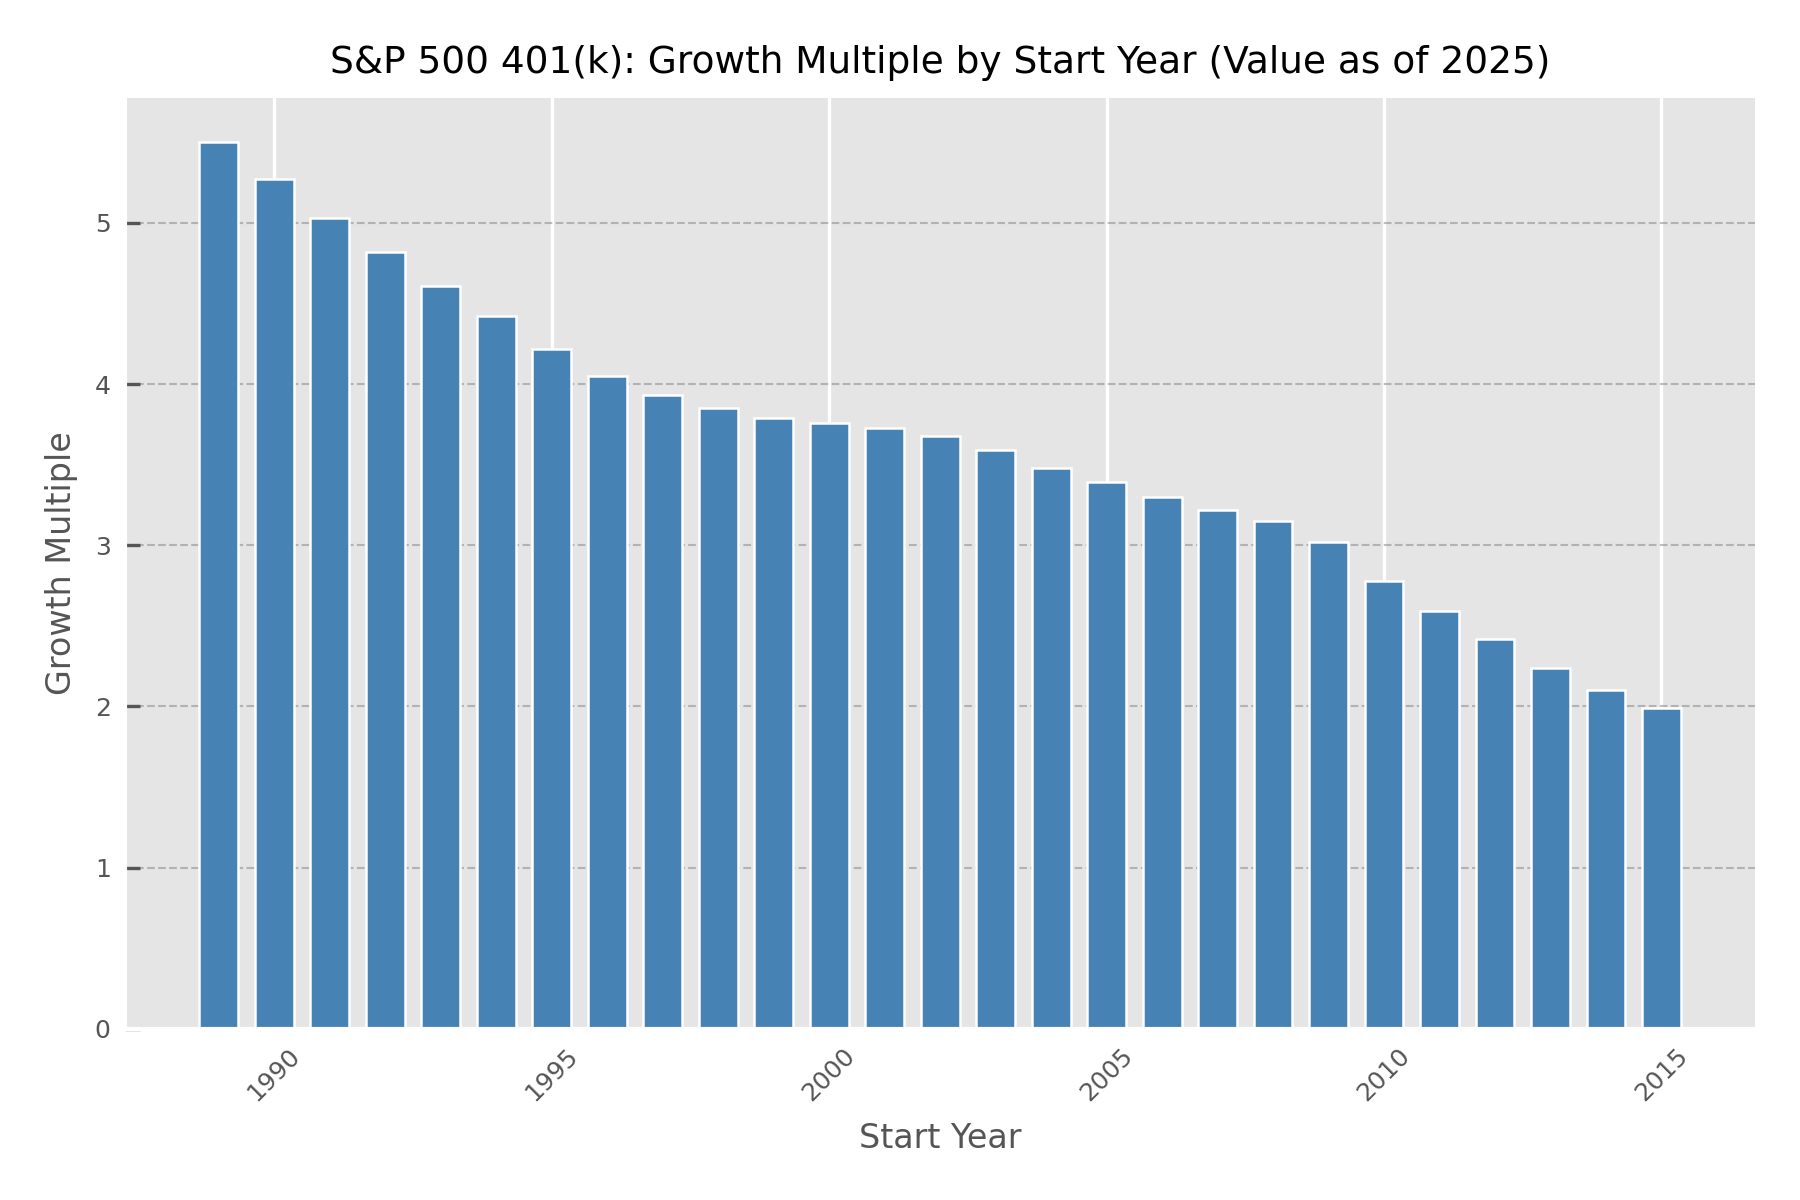
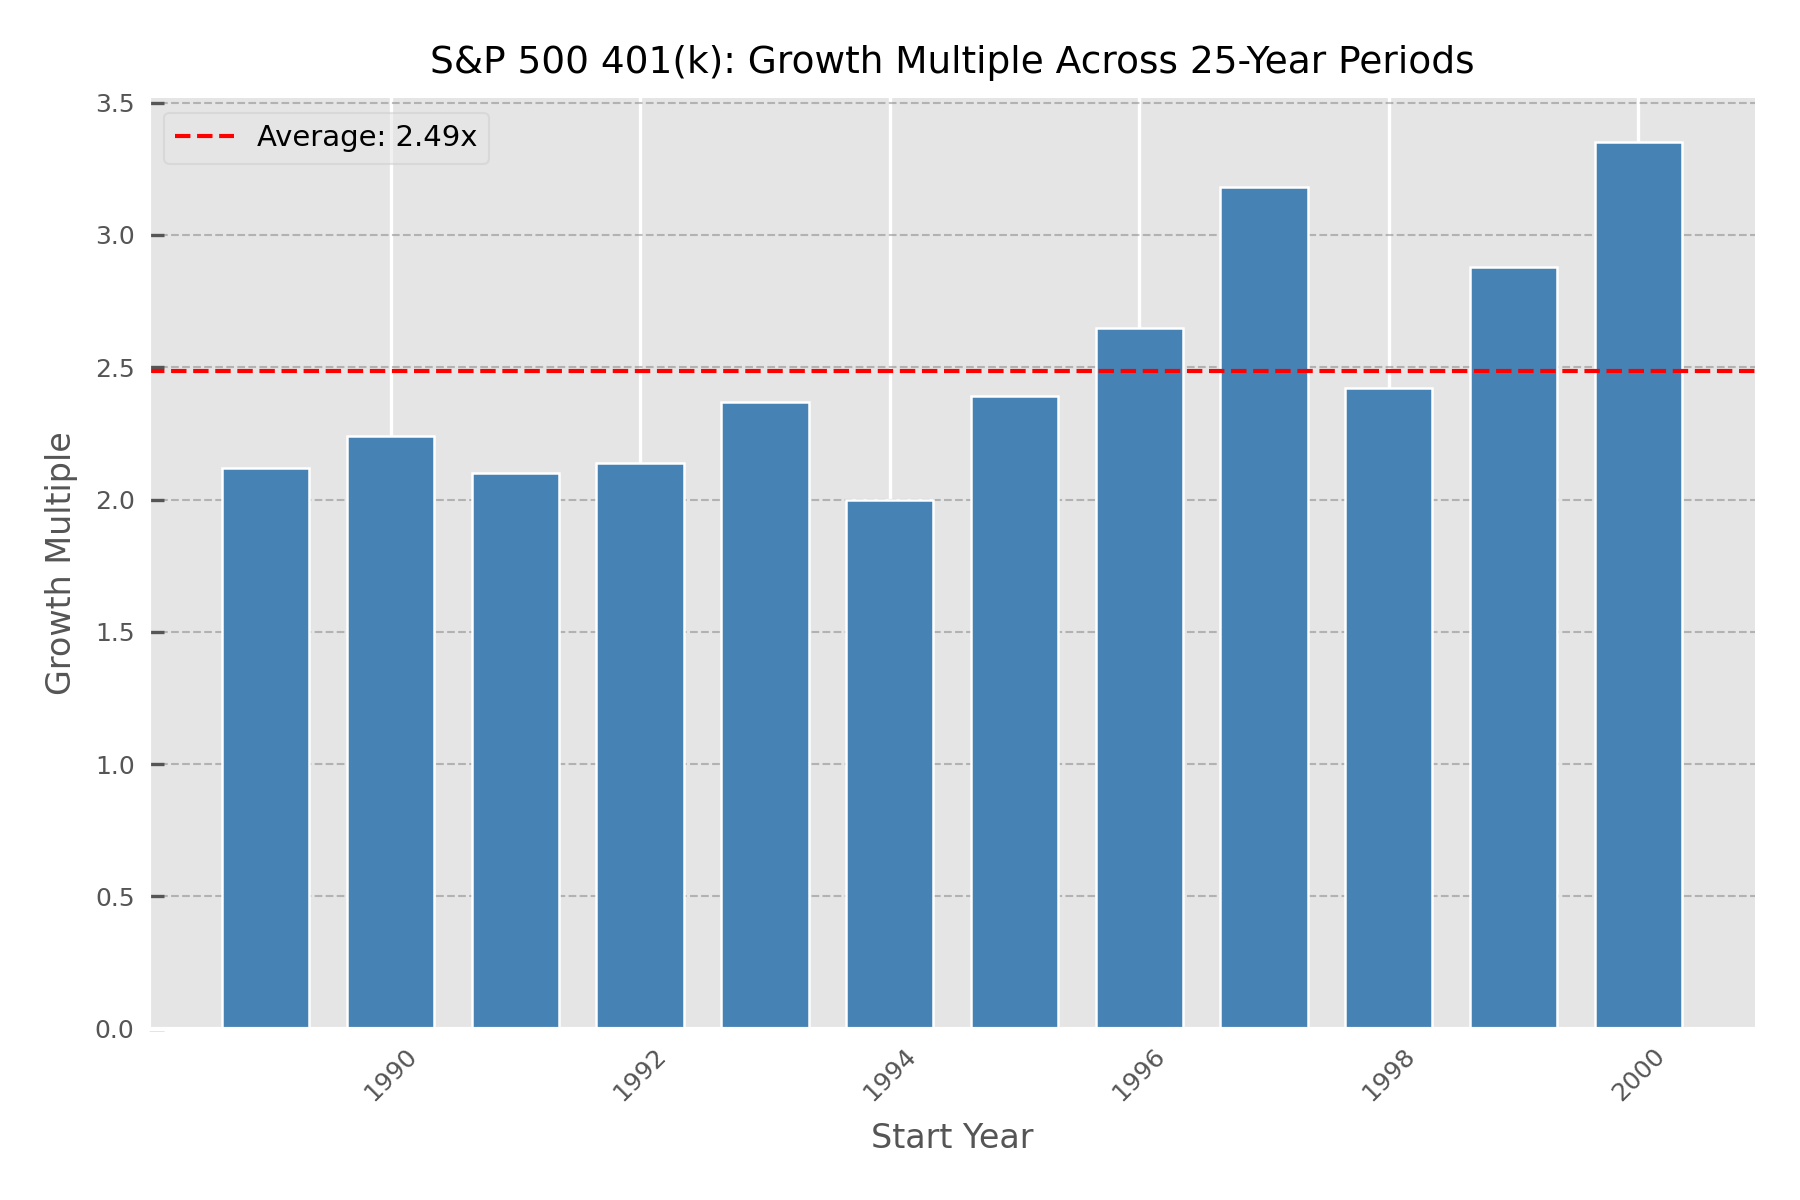
structure update

diff --git a/blog.html b/blog.html
@@ -1,0 +1,56 @@
+<!DOCTYPE html>
+<html lang="en">
+<head>
+  <meta charset="utf-8">
+  <meta name="viewport" content="width=device-width, initial-scale=1">
+  <title>Blog — Reza Ehsani</title>
+  <link rel="preconnect" href="https://fonts.googleapis.com">
+  <link rel="preconnect" href="https://fonts.gstatic.com" crossorigin>
+  <link href="https://fonts.googleapis.com/css2?family=Inter:wght@400;600;700&display=swap" rel="stylesheet">
+  <link rel="stylesheet" href="css/style.css">
+  <style>
+    .blog-index { max-width: 720px; margin: 0 auto; padding: 3rem 1.5rem 4rem; box-sizing: border-box; }
+    .blog-index h1 { font-size: 1.75rem; font-weight: 700; color: #fff; margin: 0 0 2rem; }
+    .blog-index .post-list { list-style: none; margin: 0; padding: 0; }
+    .blog-index .post-list li { margin: 0 0 1.5rem; padding: 0; border-bottom: 1px solid rgba(255,255,255,0.1); padding-bottom: 1.5rem; }
+    .blog-index .post-list li:last-child { border-bottom: none; padding-bottom: 0; }
+    .blog-index .post-list a { color: #fff; text-decoration: none; font-weight: 600; font-size: 1.1rem; }
+    .blog-index .post-list a:hover { text-decoration: underline; color: #7eb8da; }
+    .blog-index .post-date { color: rgba(255,255,255,0.55); font-size: 0.9rem; margin-top: 0.35rem; }
+    .blog-index .back { display: inline-block; margin-bottom: 2rem; color: rgba(255,255,255,0.7); text-decoration: none; font-size: 0.95rem; }
+    .blog-index .back:hover { color: #7eb8da; text-decoration: underline; }
+  </style>
+</head>
+<body>
+  <header class="top-bar">
+    <nav>
+      <a href="index.html" class="name">Reza Ehsani</a>
+      <ul class="nav-links">
+        <li><a href="index.html">Home</a></li>
+        <li><a href="index.html#about">About</a></li>
+        <li class="dropdown">
+          <a href="#" class="dropdown-toggle">Tools</a>
+          <ul class="dropdown-menu">
+            <li><a href="#">Rent Index</a></li>
+            <li><a href="wealth-estimator.html">Wealth Estimator</a></li>
+          </ul>
+        </li>
+        <li><a href="blog.html">Blog</a></li>
+        <li><a href="https://scholar.google.com/citations?view_op=list_works&hl=en&user=kGu8lPYAAAAJ" target="_blank">Publications</a></li>
+        <li><a href="#">Contact</a></li>
+      </ul>
+    </nav>
+  </header>
+
+  <main class="blog-index">
+    <p><a href="index.html" class="back">← Back to home</a></p>
+    <h1>Blog</h1>
+    <ul class="post-list">
+      <li>
+        <a href="blog-401k.html">What if you had maxed your 401(k) every year?</a>
+        <div class="post-date">February 2025</div>
+      </li>
+    </ul>
+  </main>
+</body>
+</html>

diff --git a/blog-401k.html b/blog-401k.html
@@ -44,6 +44,7 @@
             <li><a href="wealth-estimator.html">Wealth Estimator</a></li>
           </ul>
         </li>
+        <li><a href="blog.html">Blog</a></li>
         <li><a href="https://scholar.google.com/citations?view_op=list_works&hl=en&user=kGu8lPYAAAAJ" target="_blank">Publications</a></li>
         <li><a href="#">Contact</a></li>
       </ul>
@@ -53,15 +54,15 @@
   <div class="landing" style="min-height: 20vh;"></div>
 
   <article class="blog-article">
-    <a href="index.html" class="back">← Back</a>
+    <a href="blog.html" class="back">← Back to blog</a>
     <h1>What If You Had Maxed Your 401(k) Every Year?</h1>
-    <p class="meta">A backtest of max employee contributions invested in stocks and bonds (2004–2025).</p>
+    <p class="meta">A backtest of max employee contributions invested in stocks and bonds.</p>
 
     <p>
-      Suppose you contributed the IRS maximum to your 401(k) every year and invested it in a few simple strategies: 100% S&P 500, 100% NASDAQ, 100% Dow, 100% bonds (AGG), or an 80/20 stock–bond mix. How much would you have by 2025, and how much does your <em>start year</em> matter? I ran the numbers using historical limits, biweekly contributions, and adjusted prices.
+      Suppose you contributed the IRS maximum to your 401(k) every year and invested it in a few simple strategies. How much would you have by 2025, and how much does your <em>start year</em> matter? I ran the numbers using historical limits, biweekly contributions, and adjusted prices.
     </p>
     <div class="highlight-box">
-      Many people can’t max out their 401(k)—and that’s okay. This post uses the maximum to show what’s possible at the limit; <strong>even if you can’t hit the max, contributing as much as you can still puts time and compounding on your side.</strong>
+      Many people can’t max out their 401(k)—and that’s totally okay. This post uses the maximum to show what’s possible at the limit; <strong>even if you can’t hit the max, contributing as much as you can still puts time and compounding on your side.</strong>
     </div>
 
     <h2>How the backtest works</h2>
@@ -72,12 +73,12 @@
       <li><strong>Data:</strong> S&P 500, NASDAQ, Dow, and iShares Aggregate Bond ETF (AGG).</li>
       <li><strong>Assumptions:</strong> No fees, taxes, or inflation are included.</li>
       <li><strong>Exclusions:</strong> These calculations exclude employer matching and "catch-up" contributions for those age 50+.</li>
-      <li><strong>Period:</strong> The common comparison period starts in 2004 (when AGG data begins) and runs through early 2025.</li>
+      <li><strong>Period:</strong> The common comparison period starts in 2004 (when AGG data begins) and runs through end of 2025.</li>
     </ul>
 
     <h2>401(k) contribution limits over time</h2>
     <p>
-      The IRS raises the limit periodically to keep pace with inflation. It has more than tripled since 1989.
+      The amount you can contribute to a 401(k) each year from your paycheck—the employee elective deferral limit—is set by the IRS and applies per person, per year. The limit is adjusted periodically for inflation, so it has crept up over time: from about $7,600 in 1989 to $23,500 in 2025. That’s more than a tripling in nominal terms over the period. The chart below shows the limit for every year so you can see how the “max” we use in the backtest has changed.
     </p>
     <figure>
       <img src="images/1a_contribution_limits.png" alt="Bar chart of 401(k) annual contribution limit by year from 1989 to 2025." width="720" height="480">
@@ -86,7 +87,7 @@
 
     <h2>Portfolio value by strategy</h2>
     <p>
-      Below is the growth of a 401(k) that maxed contributions every year starting in 2004. The dashed line represents the <strong>Cumulative Contributions</strong>—the "break-even" point if you had simply kept the cash under a mattress.
+      Below is the growth of a 401(k) that maxed contributions every year starting in 2004. Each solid line is a different strategy: 100% S&P 500, 100% NASDAQ, 100% Dow Jones, 100% bonds (AGG), or an 80% stocks / 20% bonds mix. The dashed line is <strong>Cumulative Contributions</strong>—the total cash you put in, with no investment return. Anything above that line is the effect of market growth. Comparing the lines shows how much the choice of investment (and the period 2004–2025) changed the outcome.
     </p>
     <figure>
       <img src="images/1b_portfolio_value_by_strategy.png" alt="Line chart of portfolio value over time for S&P 500, NASDAQ, Dow, AGG, and 80/20 mix, plus cumulative contributions." width="720" height="480">
@@ -97,7 +98,9 @@
       <strong>The disparity is striking:</strong> While bonds (AGG) barely outpaced the total cash contributed, the NASDAQ transformed those same contributions into a multi-million dollar nest egg.
     </div>
 
-    <p>Summary by strategy (value as of 2025, sorted by final value). Cumulative contributions total <strong>0.40 M USD</strong>—use this to compare with each strategy’s final value below.</p>
+    <p>
+      The table below summarizes where each strategy landed by 2025. Total contributions over the period are <strong>0.40 M USD</strong>—the same for every row, since we assumed max contributions in each case. Final value (in millions) shows how much that cash became in each strategy; the <strong>growth multiple</strong> is final value divided by contributions (e.g. 3.5× means you ended with 3.5 times what you put in). Use the 0.40 M USD as the baseline: any multiple above 1× means investment returns added value on top of your contributions.
+    </p>
     <table>
       <thead>
         <tr><th>Strategy</th><th>Final Value (M USD)</th><th>Growth Multiple</th></tr>
@@ -111,34 +114,24 @@
       </tbody>
     </table>
 
-    <h2>Start year matters</h2>
+    <h2>Does start year matter?</h2>
     <p>
-      If you had started maxing your S&P 500 401(k) in 1990 versus 2010, your outcome would differ wildly. We measured this using the <strong>Growth Multiple</strong> (final value ÷ total contributed). 
+      When you start does affect your result. We measured that using the <strong>Growth Multiple</strong> (final value ÷ total contributed). The chart below shows the growth multiple for each start year over fixed 25-year contribution periods.
     </p>
     <p>
-      For example, a 5.56x multiple means that for every $1.00 you contributed, the market added an additional $4.56 in growth.
+      The takeaway: <strong>if you stay invested long enough, even bad timing still pays off.</strong> The unluckiest cohort—those whose 25-year window ended right in the 2008–2009 financial crisis—still achieved a growth multiple of about 2×. That means they doubled their contributions despite finishing at a market bottom. Time in the market, not timing the market, is what shows up in the data (I will post a follow-up on this soon).
     </p>
     <figure>
       <img src="images/1c_growth_multiple_by_start_year.png" alt="Bar chart of growth multiple by start year for S&P 500 401(k), value as of 2025." width="720" height="480">
-      <figcaption>S&P 500 401(k): growth multiple by start year (value as of 2025).</figcaption>
+      <figcaption>S&P 500 401(k): growth multiple by start year (averaging over 25-year contribution periods).</figcaption>
     </figure>
-    <p>
-      Earlier start years generally enjoy higher multiples due to the power of compounding and a longer "runway" to recover from market downturns.
-    </p>
-    <figure>
-      <img src="images/1d_final_value_by_start_year.png" alt="Bar chart of final portfolio value in millions USD by start year for S&P 500 401(k), value as of 2025." width="720" height="480">
-      <figcaption>S&P 500 401(k): final value (M USD) by start year (value as of 2025).</figcaption>
-    </figure>
-    <p>
-      Unsurprisingly, the final value drops as the start year gets later. You are contributing for fewer years and giving the money less time to work.
-    </p>
 
     <h2>The Bottom Line</h2>
     <p>
       Maxing your 401(k) is a powerful wealth-building tool, but the strategy you choose and the time you give it are the ultimate multipliers. 
     </p>
     <div class="highlight-box">
-      The "Start Year" data shows a clear trend: the best time to start maxing out your contributions was 20 years ago. <strong>The second best time is today.</strong>
+      No matter which start year you look at, the message is the same: the best time to start maxing out your contributions was 20 years ago. <strong>The second best time is today.</strong>
     </div>
 
     <p><a href="index.html">← Back to home</a></p>

diff --git a/index.html b/index.html
@@ -16,7 +16,7 @@
       <ul class="nav-links">
         <li><a href="#">Home</a></li>
         <li><a href="#about">About</a></li>
-        <li><a href="#">CV</a></li>
+        <!-- <li><a href="#">CV</a></li> -->
         <li class="dropdown">
           <a href="#" class="dropdown-toggle">Tools</a>
           <ul class="dropdown-menu">
@@ -24,12 +24,7 @@
             <li><a href="wealth-estimator.html">Wealth Estimator</a></li>
           </ul>
         </li>
-        <li class="dropdown">
-          <a href="#" class="dropdown-toggle">Blog</a>
-          <ul class="dropdown-menu">
-            <li><a href="blog-401k.html">401(k) max contributions</a></li>
-          </ul>
-        </li>
+        <li><a href="blog.html">Blog</a></li>
         <li><a href="https://scholar.google.com/citations?view_op=list_works&hl=en&user=kGu8lPYAAAAJ" target="_blank">Publications</a></li>
         <li><a href="#">Contact</a></li>
       </ul>
@@ -40,7 +35,7 @@
 
   <section id="about">
     <div class="about-inner">
-      <h2>Machine Learning Software Engineer · Hydrometeorologist · Financial Advisor</h2>
+      <h2>Machine Learning Software Engineer · Hydrometeorologist · Finance Enthusiast</h2>
       <p>Machine learning engineer and hydrometeorologist with expertise in developing production ML systems for environmental applications. I have built operational forecasting models for weather, floods, and water resources, and contributed to NASA's Global Precipitation Climatology Project V3.2. I am honored to have received the NASA Robert H. Goddard Award for outstanding contributions to climate science. I specialize in satellite data processing, deep learning for geospatial applications, and deploying ML models at scale.</p>
       <p>I am deeply interested in personal finance and investing. I write and build tools on 401(k) strategy, retirement planning, and long-term wealth building—using data and backtests to illustrate what’s possible and to help others make informed decisions.</p>
     </div>